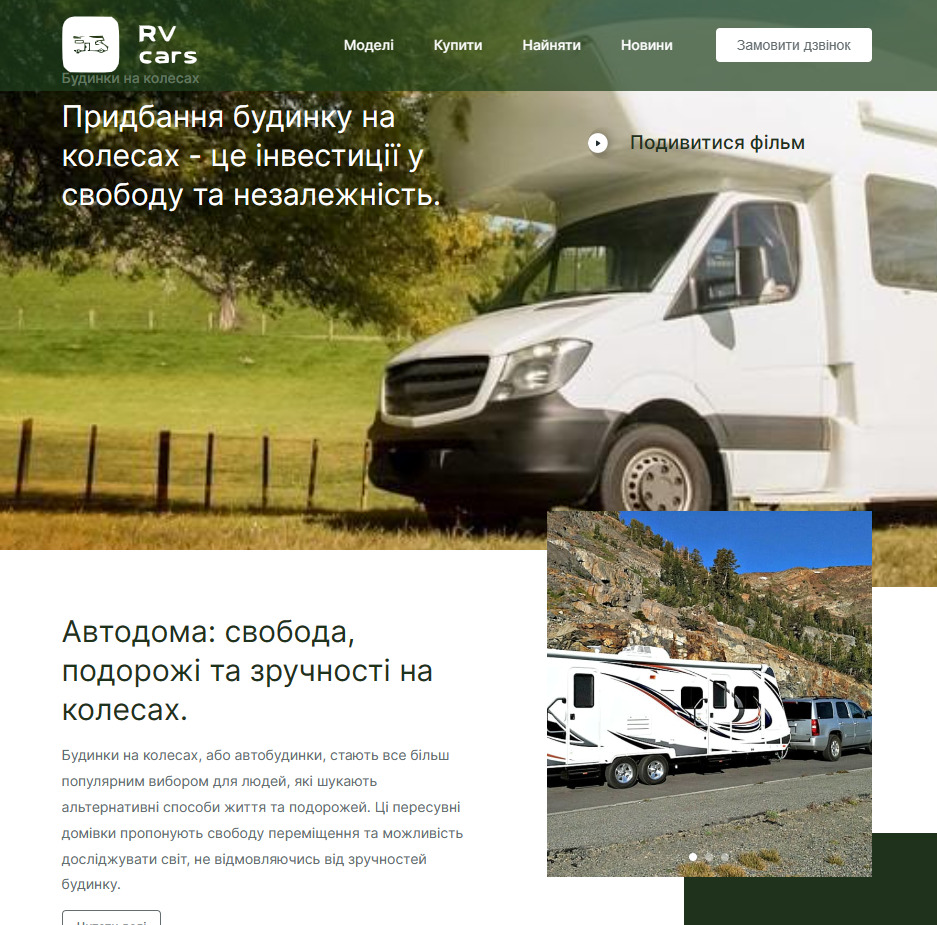
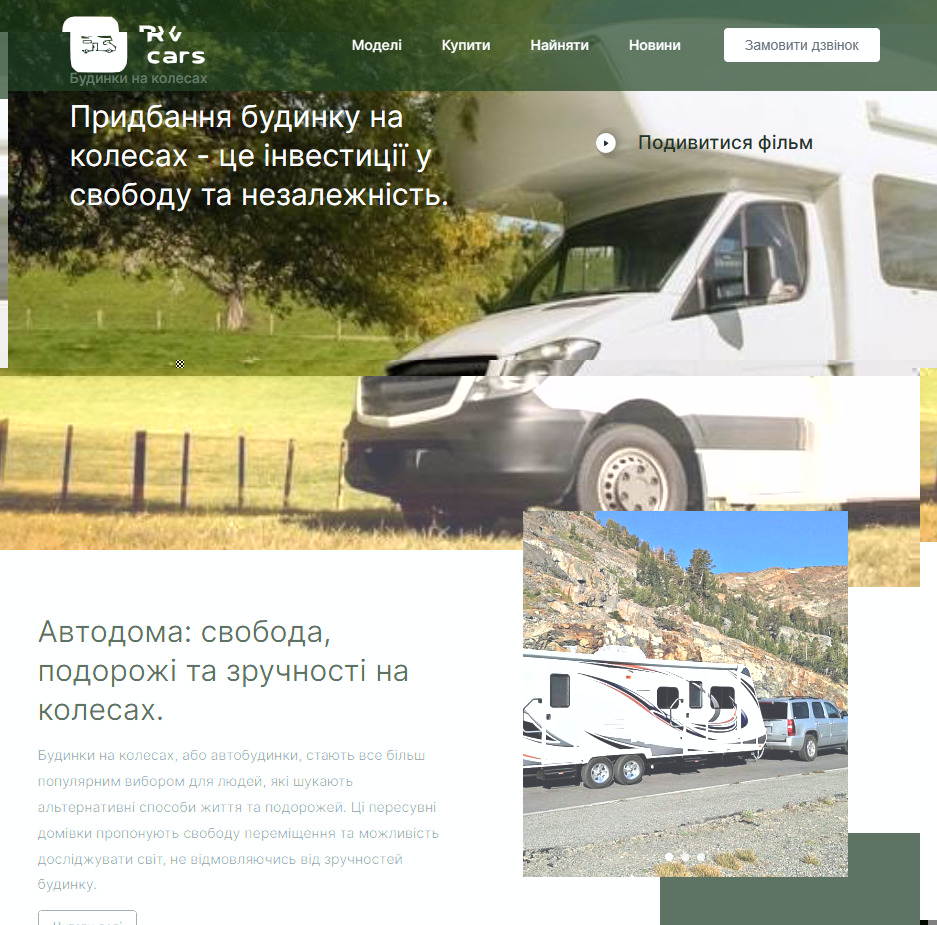
Changed the link to hosting Vercel instead of Netlify

diff --git a/index.html b/index.html
@@ -300,7 +300,7 @@
                   available on GitHub, as well as hosted on Netlify.
                 </p>
                 <a
-                  href="https://citycast-app.netlify.app/"
+                  href="https://my-weather-project-alpha.vercel.app/"
                   target="_blank"
                   class="btn btn-outline-secondary p-3 text-uppercase"
                   >view project</a
